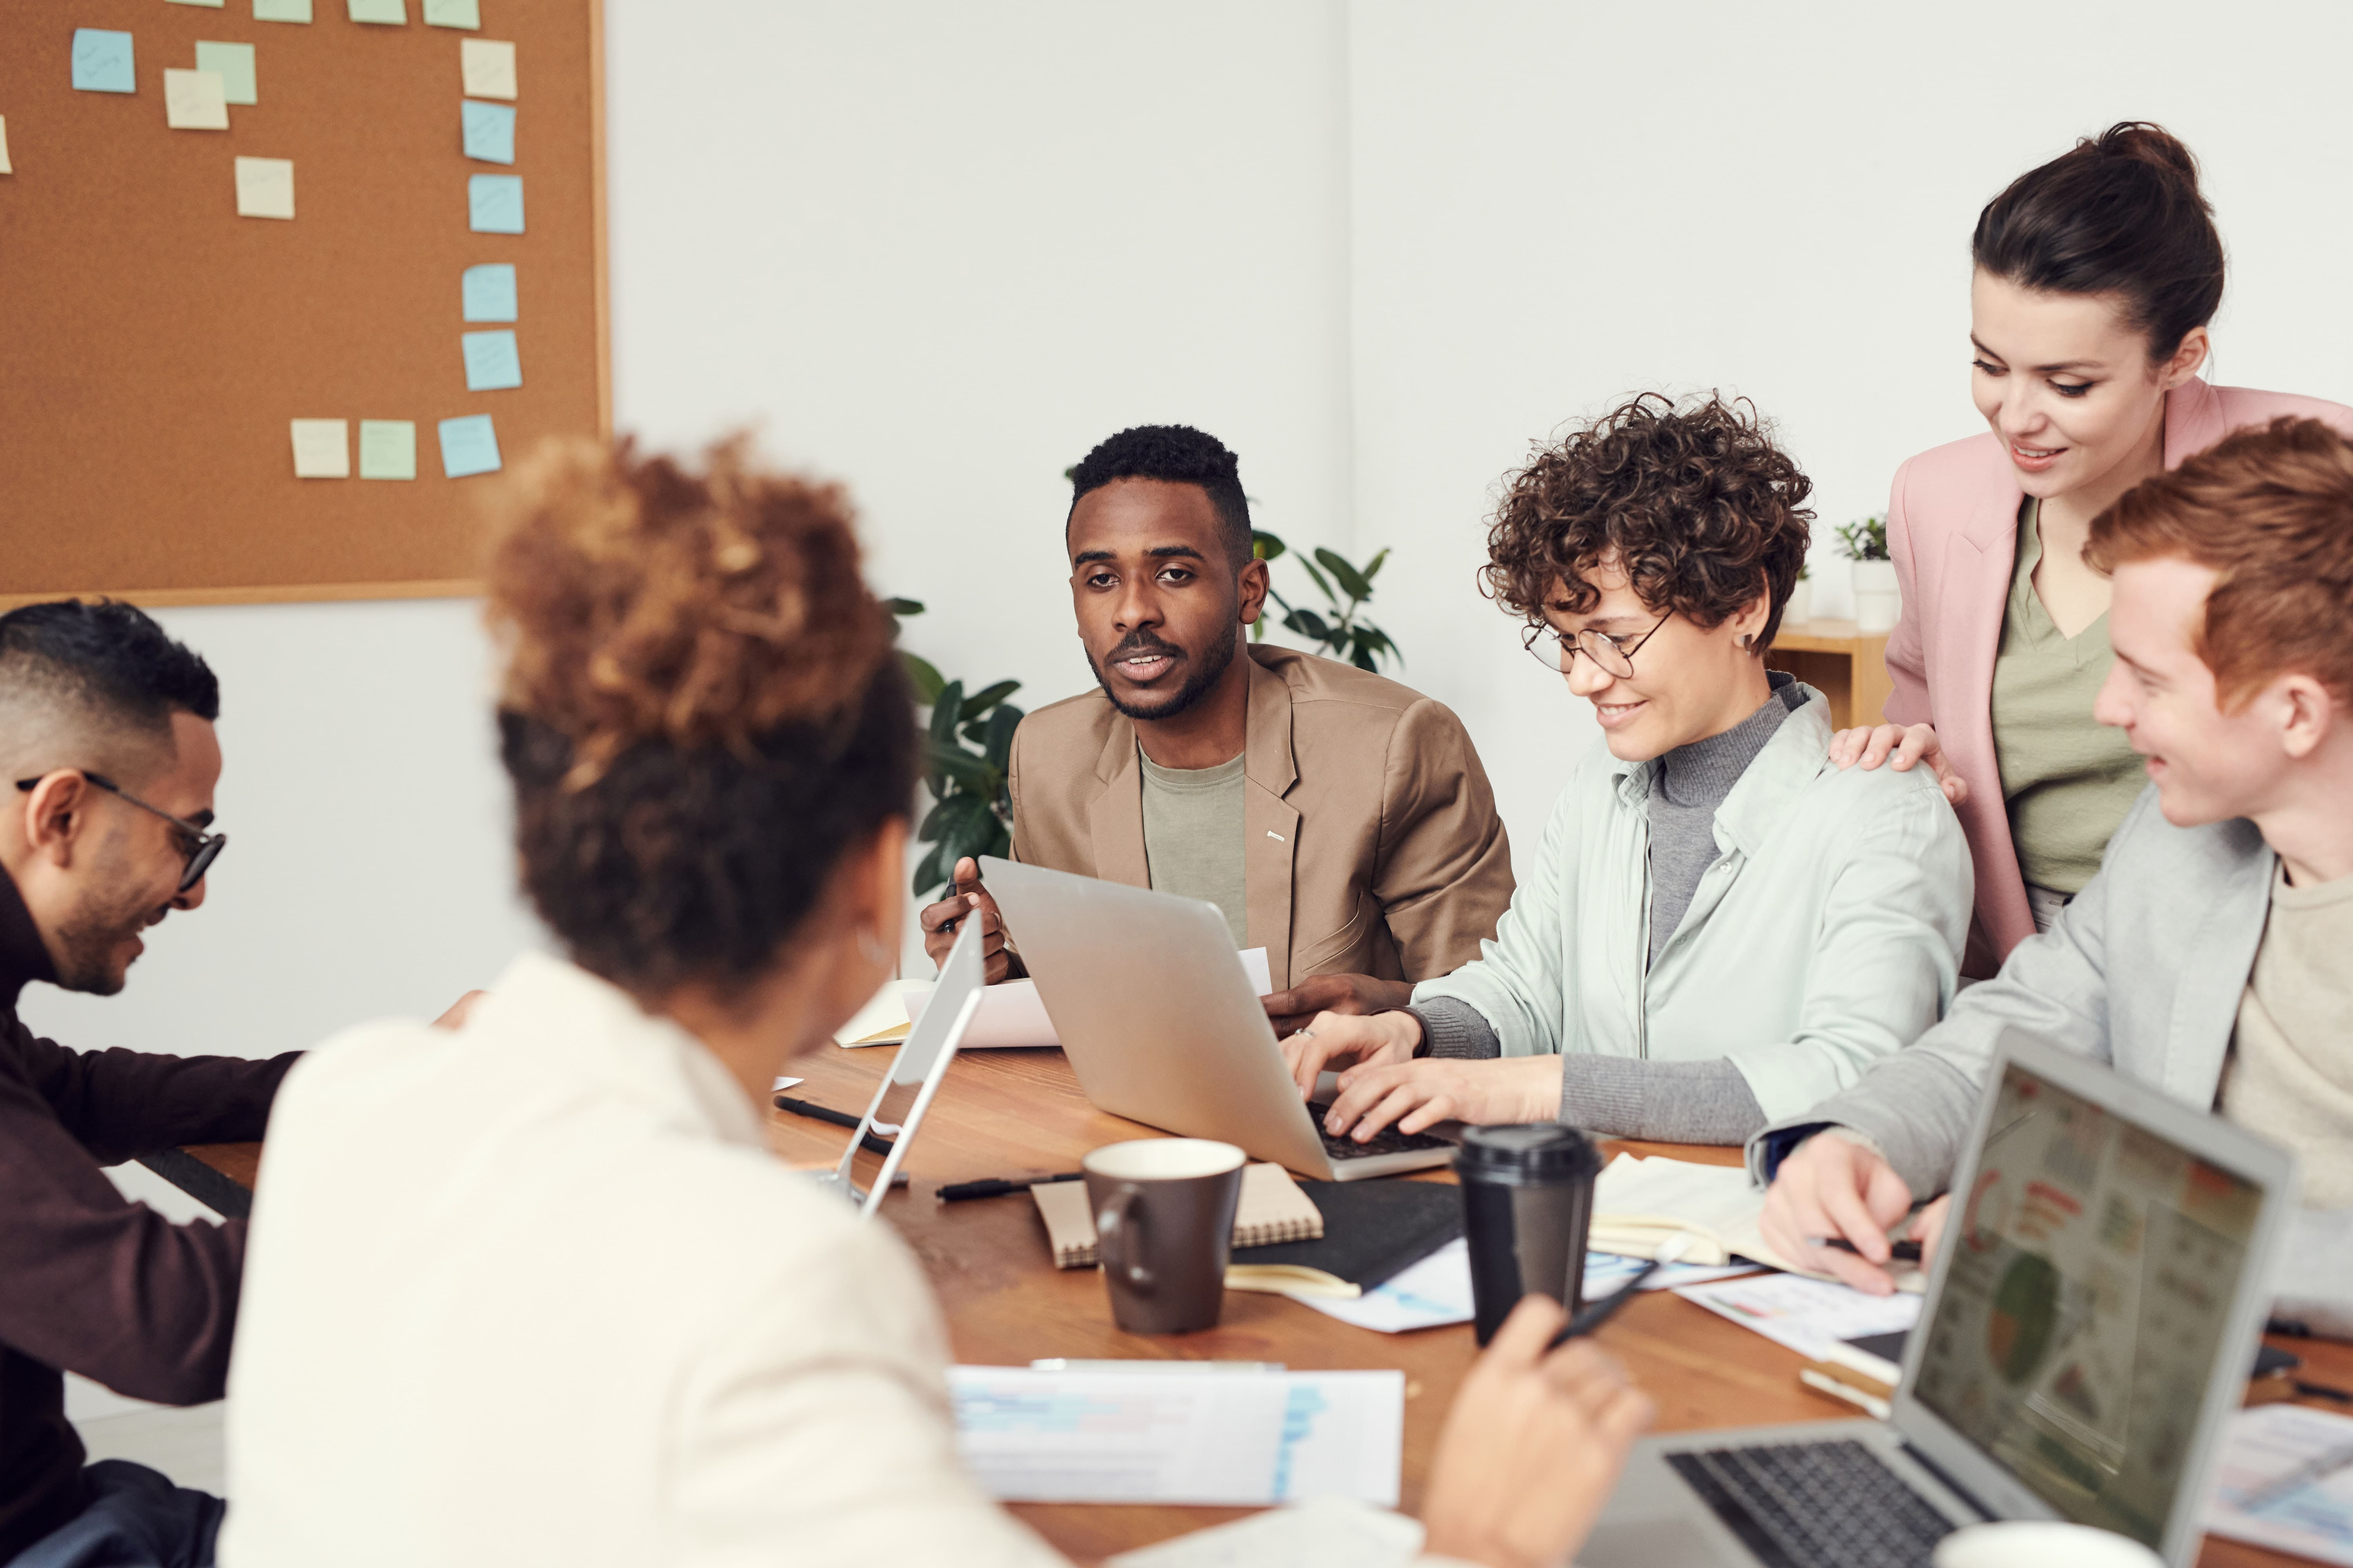
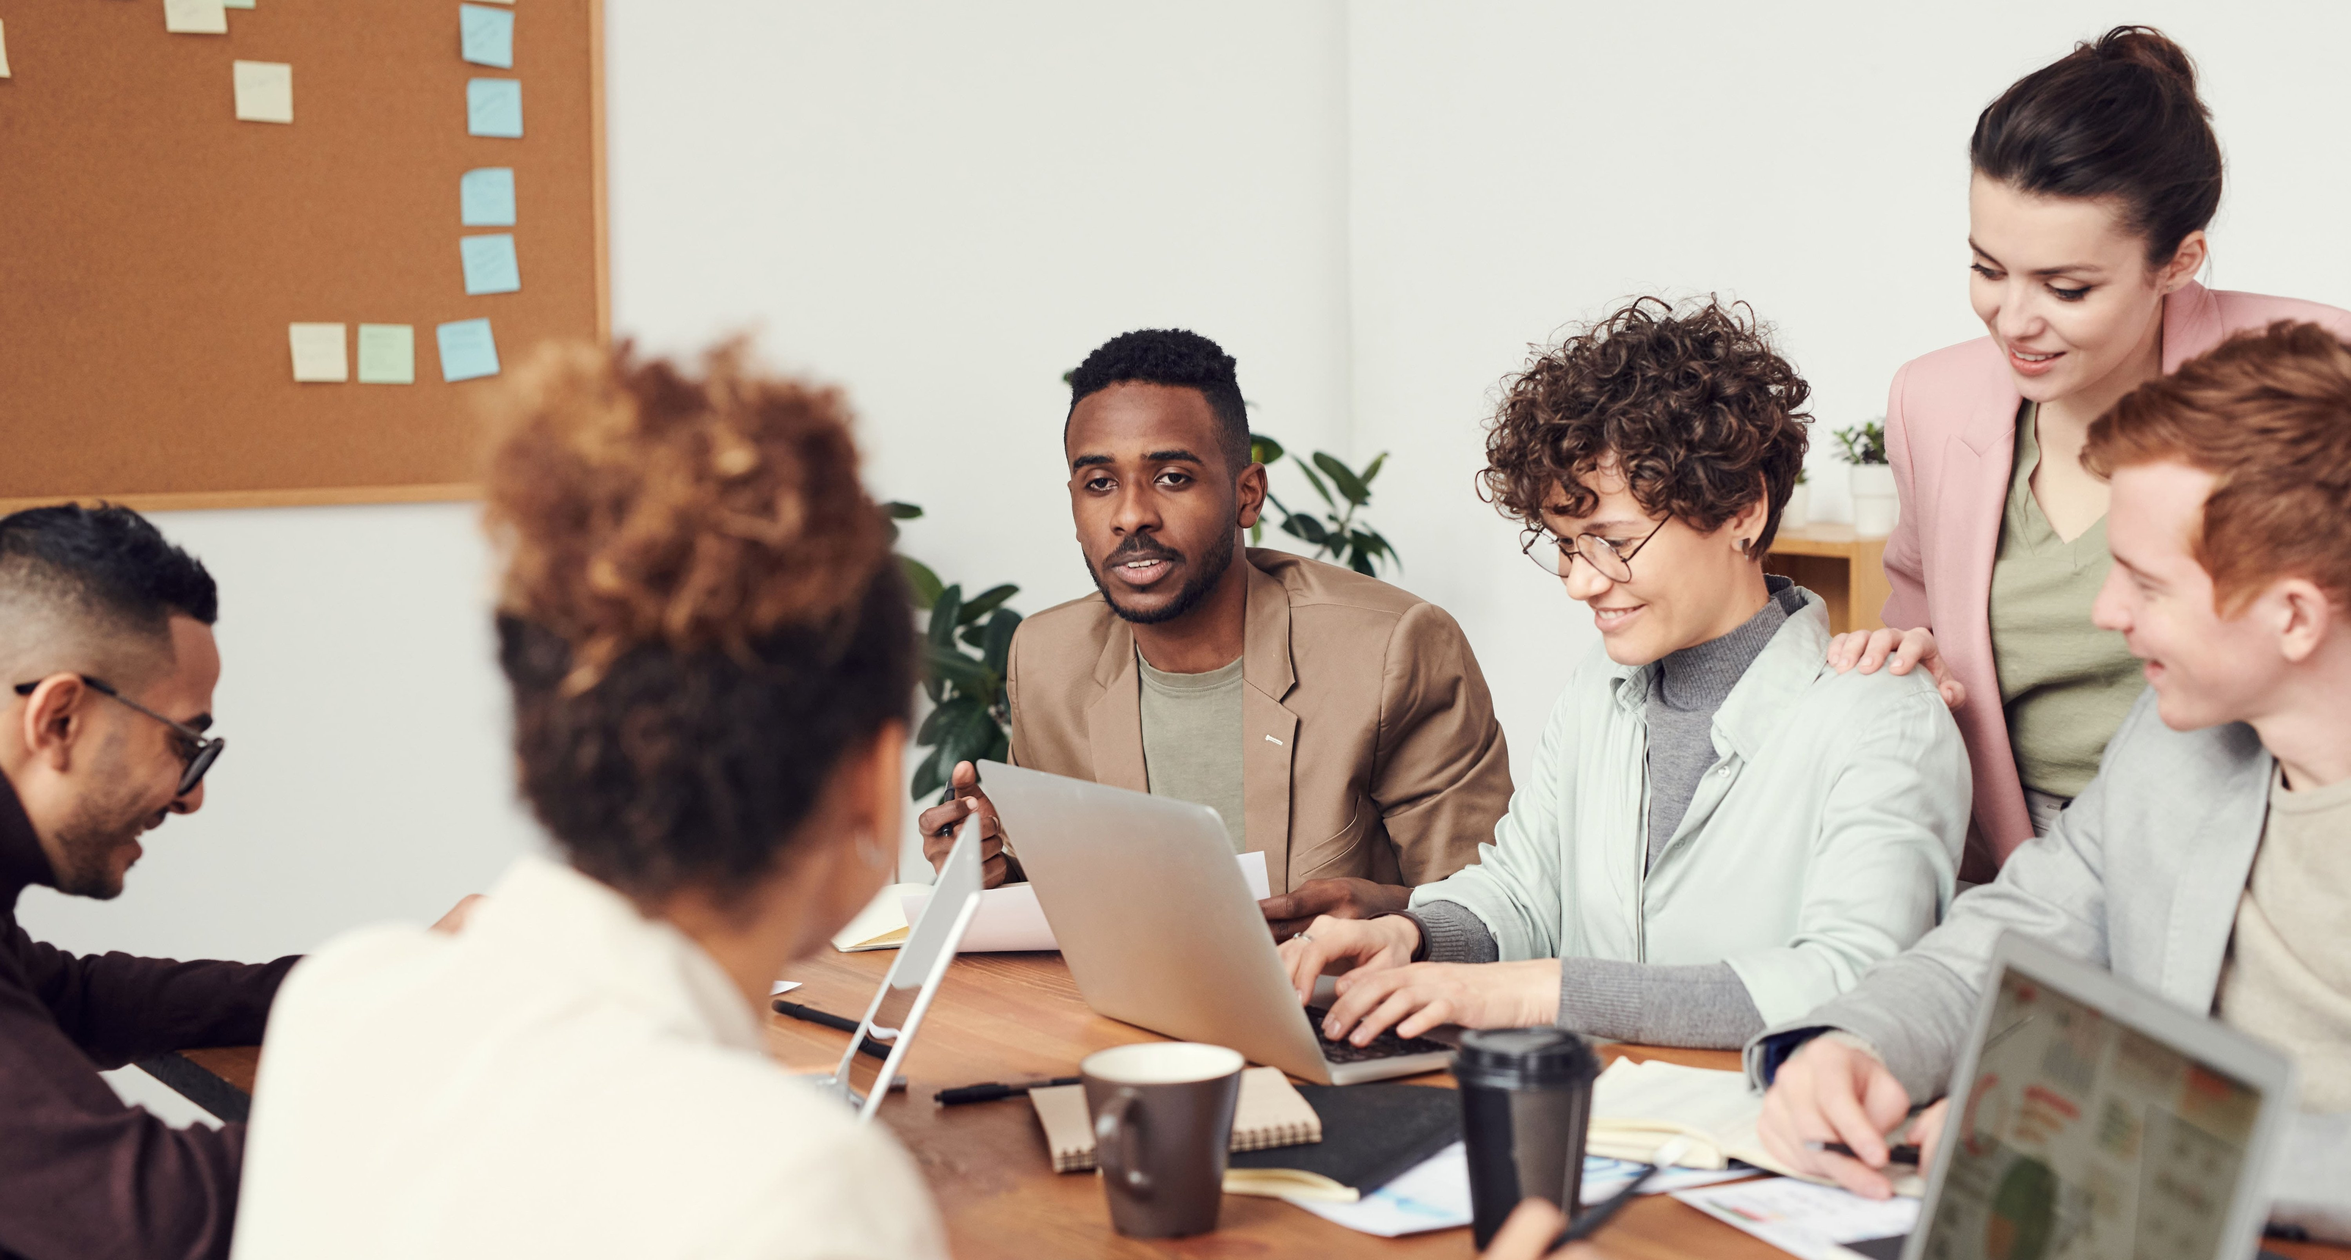
updated header img

diff --git a/static/registration.html b/static/registration.html
@@ -3,7 +3,7 @@
   <head>
     <meta charset="UTF-8" />
     <meta name="viewport" content="width=device-width, initial-scale=1.0" />
-    <link rel="stylesheet" type="text/css" href="styles.css" />
+    <link rel="stylesheet" type="text/css" href="style/styles.css" />
     <title>Registration Page</title>
   </head>
   <body>
@@ -12,13 +12,37 @@
       <a href="registration.html">Registration</a>
       <a href="login.html">Login</a>
     </nav>
-    <div class="container">
+    <div class="header-image">
       <img src="img/grp_discuss1-min.jpg" alt="group chat" class="header-image" />
-
-      <h2>Registration</h2>
-      <form id="registration-form">
-        <!-- Registration form content here -->
-      </form>
+    </div>
+    <div class="container">
+      <div class="content">
+        <h2>Registration</h2>
+        <form id="registration-form">
+          <!-- Registration form content here -->
+          <div class="form-group">
+            <label for="first-name">First Name:</label>
+            <input type="text" id="first-name" name="first-name" required minlength="2" />
+          </div>
+          <div class="form-group">
+            <label for="last-name">Last Name:</label>
+            <input type="text" id="last-name" name="last-name" required minlength="2" />
+          </div>
+          <div class="form-group">
+            <label for="email">Email:</label>
+            <input type="email" id="email" name="email" required />
+          </div>
+          <div class="form-group">
+            <label for="username">Username:</label>
+            <input type="text" id="username" name="username" required minlength="2" />
+          </div>
+          <div class="form-group">
+            <label for="password">Password:</label>
+            <input type="password" id="password" name="password" required minlength="6" />
+          </div>
+          <button type="submit">Register</button>
+        </form>
+      </div>
     </div>
     <script src="app/registration.js"></script>
   </body>

diff --git a/static/style/styles.css b/static/style/styles.css
@@ -2,41 +2,46 @@
 
 /* Basic styling (you can add more) */
 body {
-    font-family: Arial, sans-serif;
-    margin: 0;
-    padding: 0;
-}
-
-.container {
-    display: flex;
-    flex-direction: row-reverse; /* Places navigation on the right */
-}
-
-.header-image {
-    max-width: 50%; /* Adjust the width as needed */
-    height: auto;
-}
-
-.content {
-    flex-grow: 1;
-    padding: 20px;
-    box-sizing: border-box;
+  font-family: Arial, sans-serif;
+  margin: 0;
+  padding: 0;
 }
 
 /* Navigation bar styles */
 nav {
-    position: fixed; /* Fixed position */
-    top: 0; /* Stick it to the top */
-    right: 0; /* Stick it to the right */
-    background-color: #007bff;
-    padding: 10px 0;
-    text-align: center;
-    display: flex; /* Display navigation items horizontally */
-    align-items: center; /* Vertically align navigation items */
+  position: fixed; /* Fixed position */
+  top: 0; /* Stick it to the top */
+  right: 0; /* Stick it to the right */
+  background-color: #007bff;
+  padding: 10px 0;
+  text-align: center;
+  display: flex; /* Display navigation items horizontally */
+  align-items: center; /* Vertically align navigation items */
 }
 
 nav a {
-    color: #fff;
-    text-decoration: none;
-    margin: 0 20px;
+  color: #fff;
+  text-decoration: none;
+  margin: 0 20px;
+}
+
+.header-image {
+  width: 100vw; /* Adjust the width as needed */
+  overflow: hidden;
+}
+.header-image img {
+  width: 100vw;
+  height: auto;
+}
+
+.container {
+  max-width: 800px;
+  margin: 0 auto;
+  padding: 20px;
+  box-sizing: border-box;
+}
+
+.content {
+  padding: 20px;
+  box-sizing: border-box;
 }

diff --git a/static/login.html b/static/login.html
@@ -13,13 +13,25 @@
       <a href="registration.html">Registration</a>
       <a href="login.html">Login</a>
     </nav>
-    <div class="container">
+    <div class="header-image">
       <img src="img/grp_discuss1-min.jpg" alt="group chat" class="header-image" />
-
-      <h2>Login</h2>
-      <form id="login-form">
-        <!-- Login form content here -->
-      </form>
+    </div>
+    <div class="container">
+      <div class="content">
+        <h2>Login</h2>
+        <form id="login-form">
+          <!-- Login form content here -->
+          <div class="form-group">
+            <label for="username">Username:</label>
+            <input type="text" id="username" name="username" required minlength="4" />
+          </div>
+          <div class="form-group">
+            <label for="password">Password:</label>
+            <input type="password" id="password" name="password" required minlength="6" />
+          </div>
+          <button type="submit">Login</button>
+        </form>
+      </div>
     </div>
     <script src="app/login.js"></script>
   </body>

diff --git a/static/style.css b/static/style.css
@@ -1,11 +1,48 @@
+/* static/style/styles.css */
+
+/* Reset default margin and padding */
+body,
+h1,
+h2,
+p {
+  margin: 0;
+  padding: 0;
+}
+
 body {
   font-family: Arial, Arial, Helvetica, sans-serif;
   text-align: center;
+}
+
+/* navbar style */
+nav {
+  background-color: #007bff;
+  padding: 10px 0;
+  text-align: center;
+}
+nav a {
+  color: #fff;
+  text-decoration: none;
+  margin: 0 20px;
+}
+
+.header-image {
+  width: 100%;
+  overflow: hidden;
+}
+.header-image img {
+  width: 100%;
+  height: auto;
 }
 
 .container {
   max-width: 300px;
   margin: 0 auto;
   padding: 20px;
+  box-sizing: border-box;
 }
 
+.content {
+  padding: 20px;
+  box-sizing: border-box;
+}

diff --git a/static/index.html b/static/index.html
@@ -17,8 +17,10 @@
       <a href="registration.html">Registration</a>
       <a href="login.html">Login</a>
     </nav>
-    <div class="container">
+    <div class="header-image">
       <img src="img/grp_discuss1-min.jpg" alt="group chat" class="header-image" />
+    </div>
+    <div class="container">
       <div class="content">
         <h1>Welcome to Our Web Forum</h1>
         <p>
